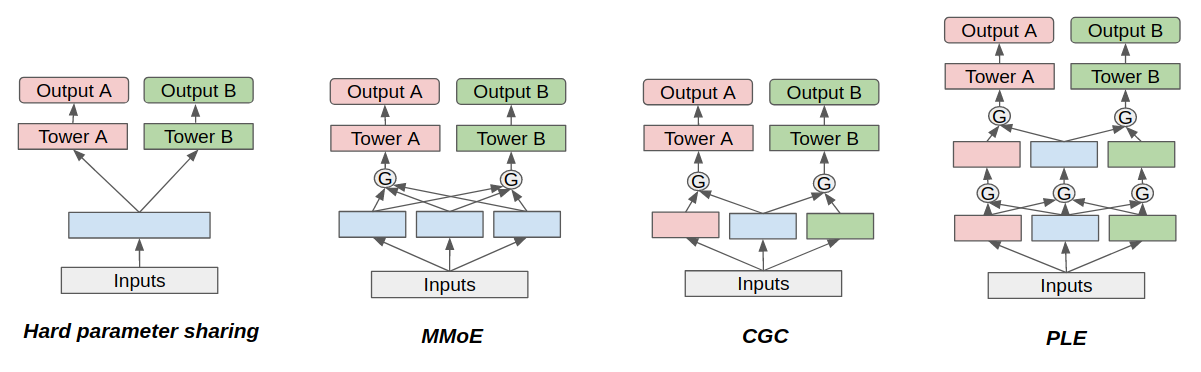
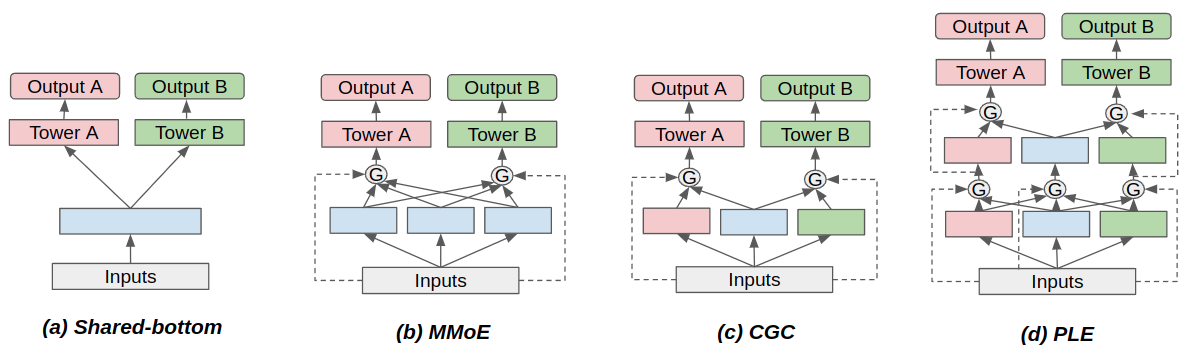
Updates on MTL example text and illustration (#1003)
* Removing schema arg from CGCBlock calls

* Updating MTL architecture image and text of the MTL example

---------

diff --git a/tests/unit/tf/prediction_tasks/test_multi_task.py b/tests/unit/tf/prediction_tasks/test_multi_task.py
@@ -461,7 +461,6 @@ def test_cgc_model(music_streaming_data: Dataset, run_eagerly: bool, task_blocks
         expert_block=mm.MLPBlock([64]),
         num_task_experts=2,
         num_shared_experts=3,
-        schema=schema,
     )
     model = mm.Model(inputs, cgc, prediction_tasks)
     model.compile(optimizer="adam", run_eagerly=run_eagerly)

diff --git a/tests/unit/tf/outputs/test_block.py b/tests/unit/tf/outputs/test_block.py
@@ -831,7 +831,6 @@ def test_cgc_model(music_streaming_data: Dataset, run_eagerly: bool, task_blocks
         expert_block=mm.MLPBlock([64]),
         num_task_experts=2,
         num_shared_experts=3,
-        schema=schema,
     )
     model = mm.Model(inputs, cgc, output_block)
 
